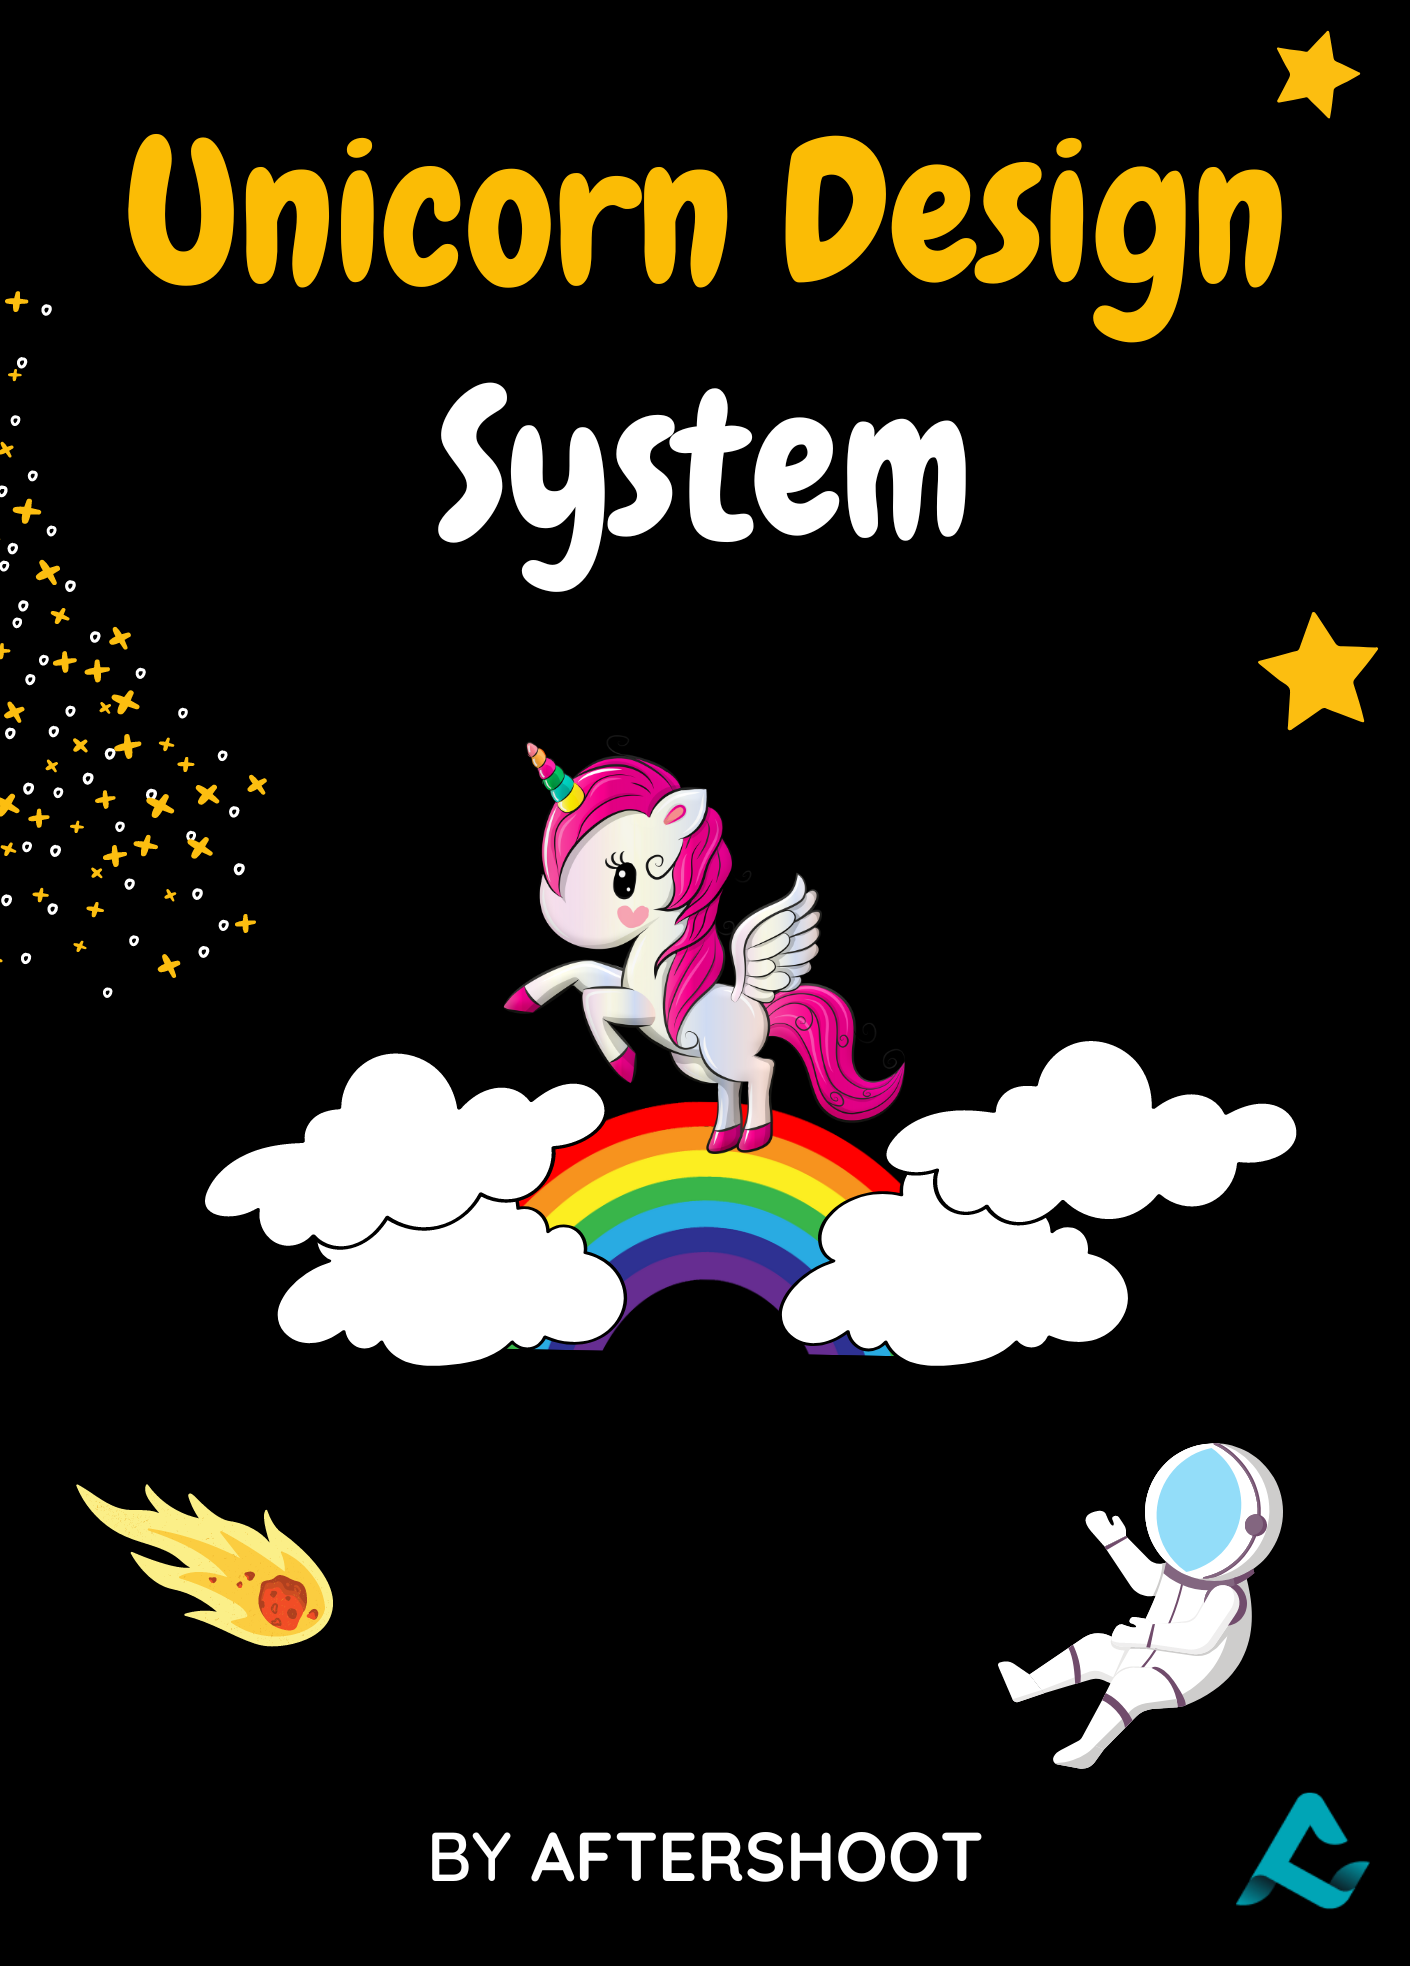
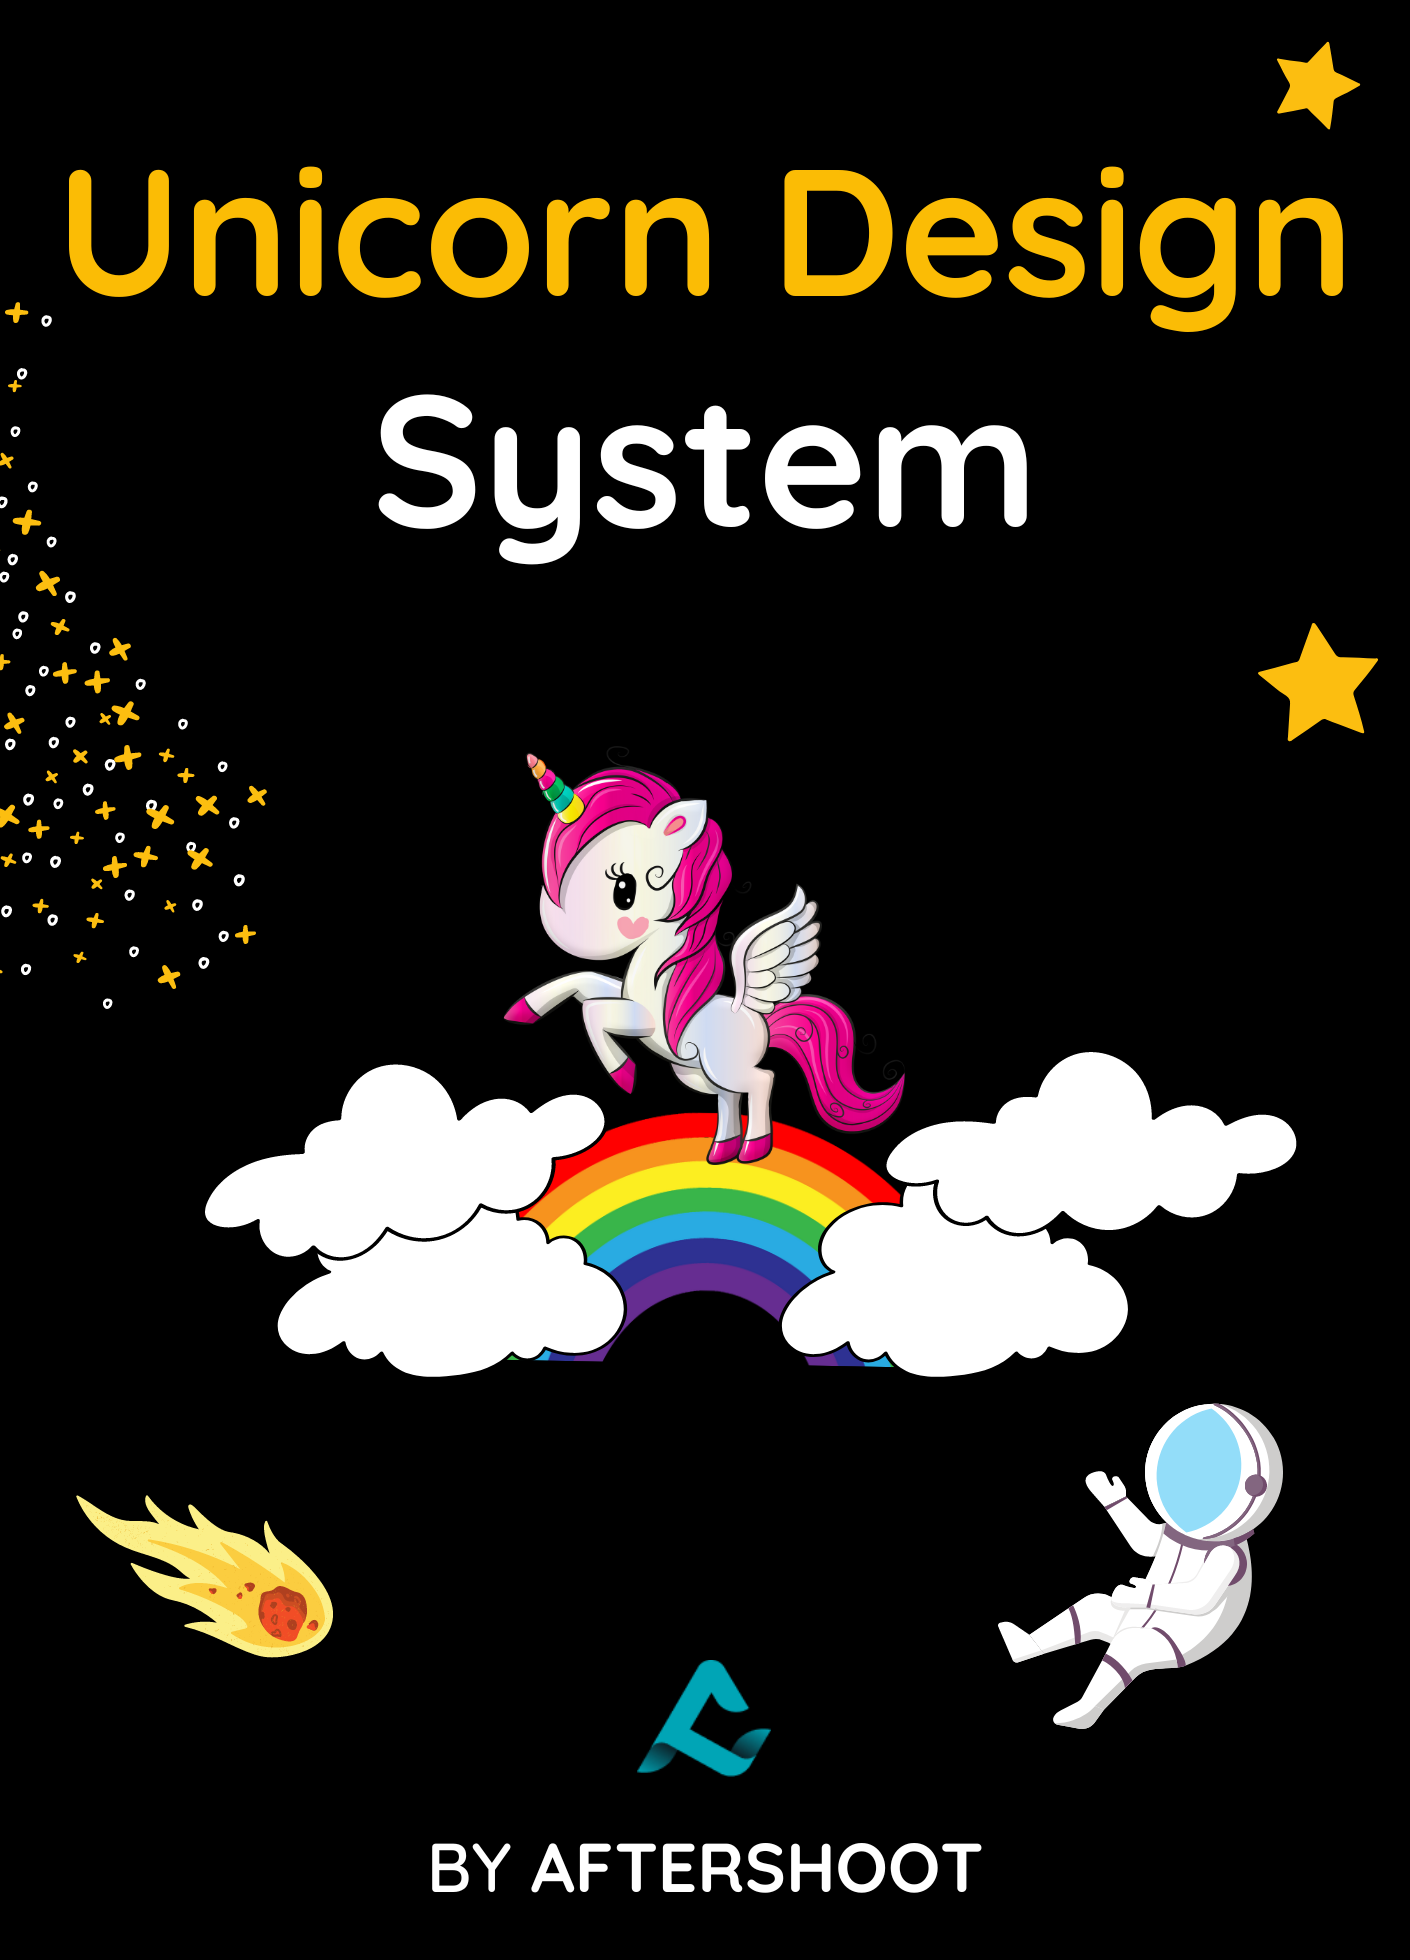
REadme updated

diff --git a/README.md b/README.md
@@ -1,19 +1,72 @@
-# Unicorn Design System
+<div align="center">
+    <img src="./src/assets/Images/Cover.png" alt="Unicorn Design System">
+    <h1>Unicorn Design System</h1>
+    <strong>Unicorn Design System is Aftershoot's inbuilt library for using different react components with custom configurations in thier Desktop app.</strong>
+</div>
+<br>
+<div align="center">
+    <a href="https://github.com/aftershootco/Unicorn-Design-System/blob/develop-readme/LICENSE.md">
+        <img src="https://img.shields.io/badge/License-Apache_2.0-blue.svg" alt="License">
+    </a>
+    <a href="https://twitter.com/aftershootco?lang=en">
+        <img src="https://img.shields.io/twitter/follow/aftershootco?label=Twitter&style=flat&logo=twitter&color=1DA1F2" alt="Aftershoot Twitter">
+    </a>
+</div>
 
-**Note:** Make sure you have node.js installed in your system.
+## How to Build?
 
-## Steps to Build
+1. Get the lastest pull
 
--   Run this command - `yarn build`
+```sh
+git pull
+```
 
-## Steps to Publish
+2. Install all the dependencies
 
--   First push the changes to the git on the `main` branch.
--   Login to the npm - `npm login`
-    -   This step will require you to enter the `username`, `password`, `email`, and `OTP` sent to the email.
--   Now run `npm publish --access=public` command. This will publish your package to the npm.
+```sh
+yarn
+```
 
-## Steps to Storybook
+3. Now build it.
 
--   Take the latest pull - `git pull`
--   Run this command - `yarn storybook`
+```sh
+yarn build
+```
+
+## How to Publish?
+
+To publish the library, follow the below steps -
+
+1. First push all your changes to the git on the `main` branch.
+2. Login to the npm. This step will require you to enter your npm `username`, `password`, `email`, and `OTP` sent to the email.
+
+```sh
+npm login
+```
+
+3. Now run the following command to publish your package to the npm.
+
+```sh
+npm publish --access=public
+```
+
+## How to Run Storybook?
+
+1. Take the latest pull
+
+```sh
+git pull
+```
+
+2. Run the following command -
+
+```sh
+yarn storybook
+```
+
+## Contributors
+
+-   Akash Singh — [Github](https://github.com/frannkenstein)
+-   Shaney Waris — [Github](https://github.com/ShaneyWaris)
+-   Aniket Parihar — [Github](https://github.com/aniketxparihar)
+-   Yash Johri — [Github](https://github.com/yash1200)
